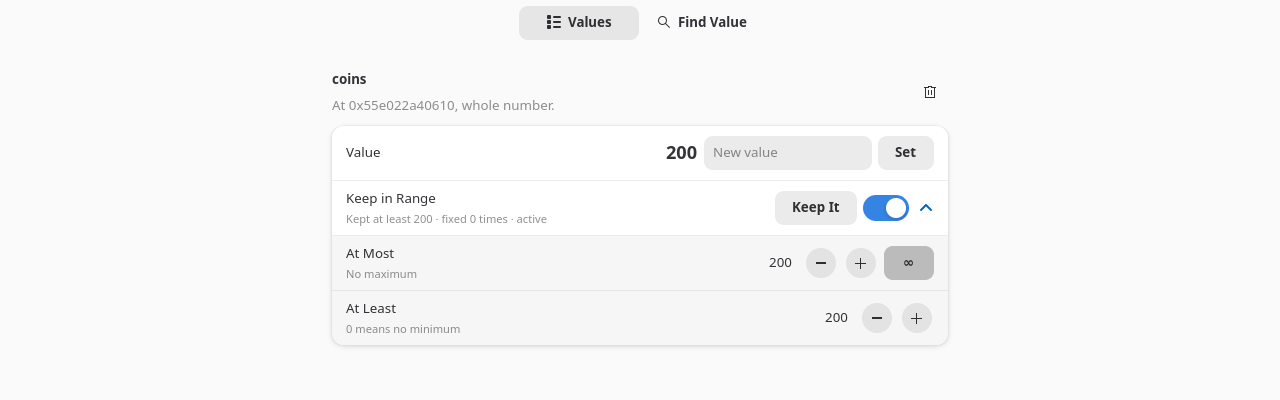
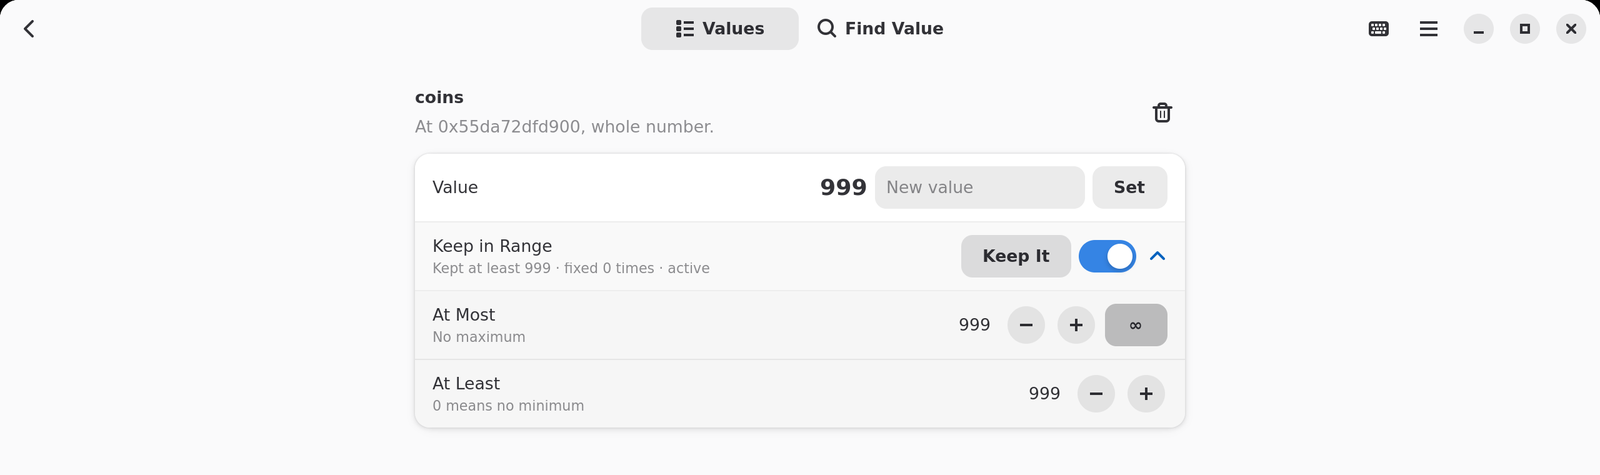
README: a SuperTux GIF of a whole find, sharper screenshots
The GIF and stills were made with SuperTux and Ferret each in a hidden
gamescope. The screenshot debug action now renders at the window's scale
factor, so 2x windows give 2x pictures.

diff --git a/src/gui/mod.rs b/src/gui/mod.rs
@@ -789,11 +789,13 @@ fn games_page(ui_list: &gtk::ListBox, stack: &gtk::Stack, error: &adw::StatusPag
 }
 
 /// Renders the window into a PNG, so the interface can be checked without
-/// taking a screenshot of the desktop.
+/// taking a screenshot of the desktop. At the window's scale (2x on HiDPI screens).
 fn save_screenshot(window: &adw::ApplicationWindow, path: &str) -> Result<(), String> {
     let (w, h) = (window.width(), window.height());
     let paintable = gtk::WidgetPaintable::new(Some(window));
     let snapshot = gtk::Snapshot::new();
+    let scale = window.scale_factor() as f32;
+    snapshot.scale(scale, scale);
     paintable.snapshot(&snapshot, w as f64, h as f64);
     let node = snapshot.to_node().ok_or("nothing to render")?;
     let renderer = window.native().and_then(|n| n.renderer()).ok_or("no renderer")?;

diff --git a/README.md b/README.md
@@ -4,12 +4,10 @@
 window, play a little, and Ferret finds where the game keeps it. Then set it, keep it from going
 down, and get it back automatically every time you play. For single-player games on Linux.
 
-![Ferret following SuperTux's coin count: 21 → 2 places match, the player's turn to change it](data/screenshots/find-supertux.png)
+![Ferret finding SuperTux's coins: click the number, play while the matches drop from 2,132 to 2, Ferret checks which is real, save it, set it to 999 and keep it there](data/screenshots/ferret-supertux.gif)
 
-![The coins saved in the Values tab: set them, or keep them in a range](data/screenshots/values-supertux.png)
-
-<sub>The game in the screenshots is [SuperTux](https://www.supertux.org/), free and open source;
-its artwork is under its own free licenses.</sub>
+<sub>The game is [SuperTux](https://www.supertux.org/), free and open source; its artwork is
+under its own free licenses. The GIF is sped up.</sub>
 
 Ferret is in development: it works on the games listed below, but there are no ready-made
 packages yet (see [Building](#building)).
@@ -24,11 +22,15 @@ packages yet (see [Building](#building)).
    it's your turn to change the number: pick up some coins, take a hit. Every change narrows the
    search. When a few places are left that all follow the number, Ferret writes test values to
    tell the real one from the game's display copies; if it still can't tell, you try them.
+
+   ![Ferret following SuperTux's coin count: 58 → 11 places match, the player's turn to change it](data/screenshots/find-supertux.png)
 4. **Save it with a name.** Ferret works out how the game gets to the value, so it finds it
    again after the game restarts, usually within a second or two of opening the game.
 5. **Change it** in the Values tab, or **keep it in a range** (Keep It: never below the number
    now). Limits keep working while you play, even with Ferret's window closed; a hotkey turns
    them off and on from inside the game.
+
+   ![The coins saved in the Values tab, set to 999 and kept at least there](data/screenshots/values-supertux.png)
 
 Notifications tell you what Ferret needs while the game is in front, even in fullscreen.
 
